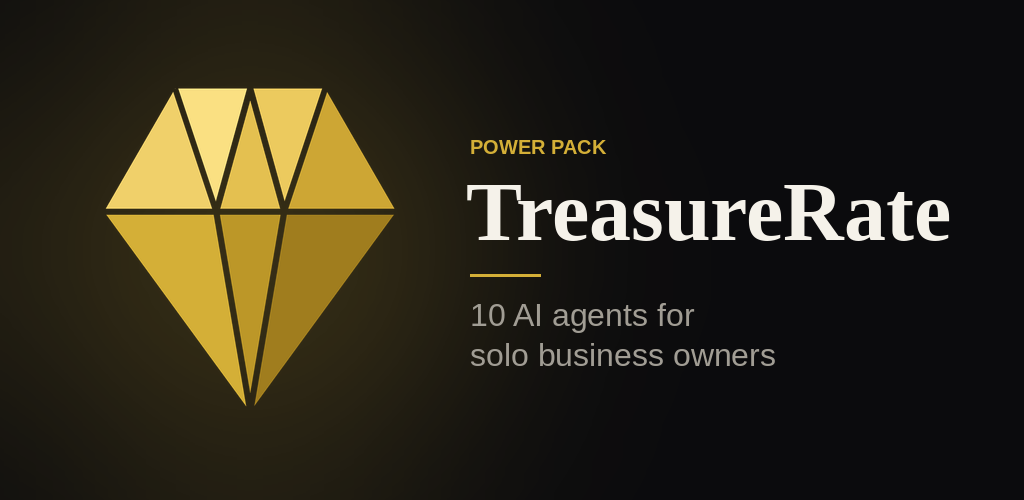
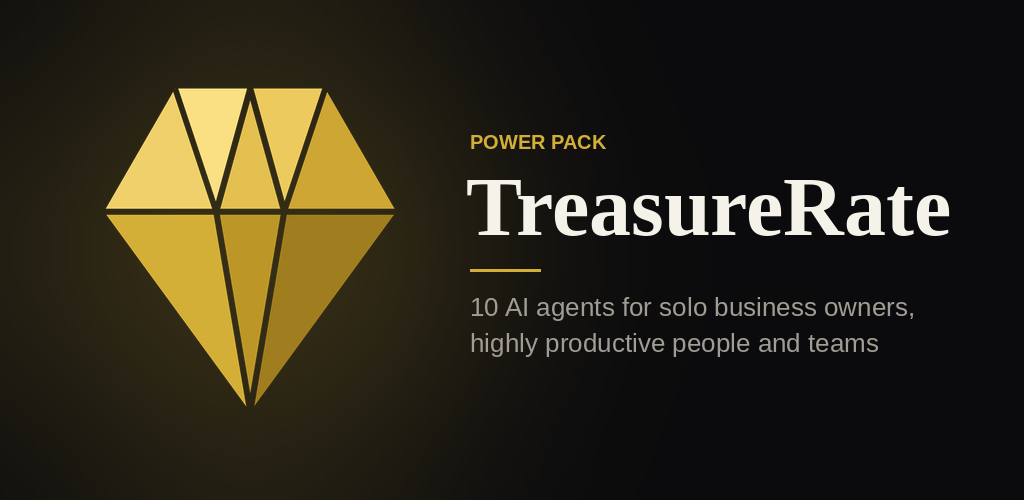
Broaden tagline to include productive people and teams
Claude-Session: https://claude.ai/code/session_01TDKDJVo5VksavVkXUSxXuu

diff --git a/scripts/generate-brand-assets.py b/scripts/generate-brand-assets.py
@@ -74,9 +74,11 @@ title = ImageFont.truetype("/usr/share/fonts/truetype/liberation/LiberationSerif
 sub = ImageFont.truetype("/usr/share/fonts/truetype/liberation/LiberationSans-Regular.ttf", 32)
 tag = ImageFont.truetype("/usr/share/fonts/truetype/liberation/LiberationSans-Bold.ttf", 20)
 x = 470
-d.text((x, 135), "POWER PACK", font=tag, fill=GOLD, spacing=0)
-d.text((x - 4, 165), "TreasureRate", font=title, fill=(245, 242, 234))
-d.line([(x, 275), (x + 70, 275)], fill=GOLD, width=3)
-d.text((x, 297), "10 AI agents for", font=sub, fill=(161, 157, 148))
-d.text((x, 337), "solo business owners", font=sub, fill=(161, 157, 148))
+lines = ["10 AI agents for solo business owners,", "highly productive people and teams"]
+sub = ImageFont.truetype("/usr/share/fonts/truetype/liberation/LiberationSans-Regular.ttf", 26)
+d.text((x, 130), "POWER PACK", font=tag, fill=GOLD)
+d.text((x - 4, 160), "TreasureRate", font=title, fill=(245, 242, 234))
+d.line([(x, 270), (x + 70, 270)], fill=GOLD, width=3)
+for i, line in enumerate(lines):
+    d.text((x, 292 + i * 36), line, font=sub, fill=(161, 157, 148))
 fg.convert("RGB").save(R + "store/play-feature-graphic-1024x500.png", optimize=True)

diff --git a/README.md b/README.md
@@ -1,6 +1,6 @@
 # TreasureRate Power Pack (Android)
 
-Ten AI agents for solo business owners, built on the TreasureRate agent backend.
+Ten AI agents for solo business owners, highly productive people and teams, built on the TreasureRate agent backend.
 
 - Expo SDK 57, Expo Router
 - No sign-in in v1: business profile and run history are stored on the device only
